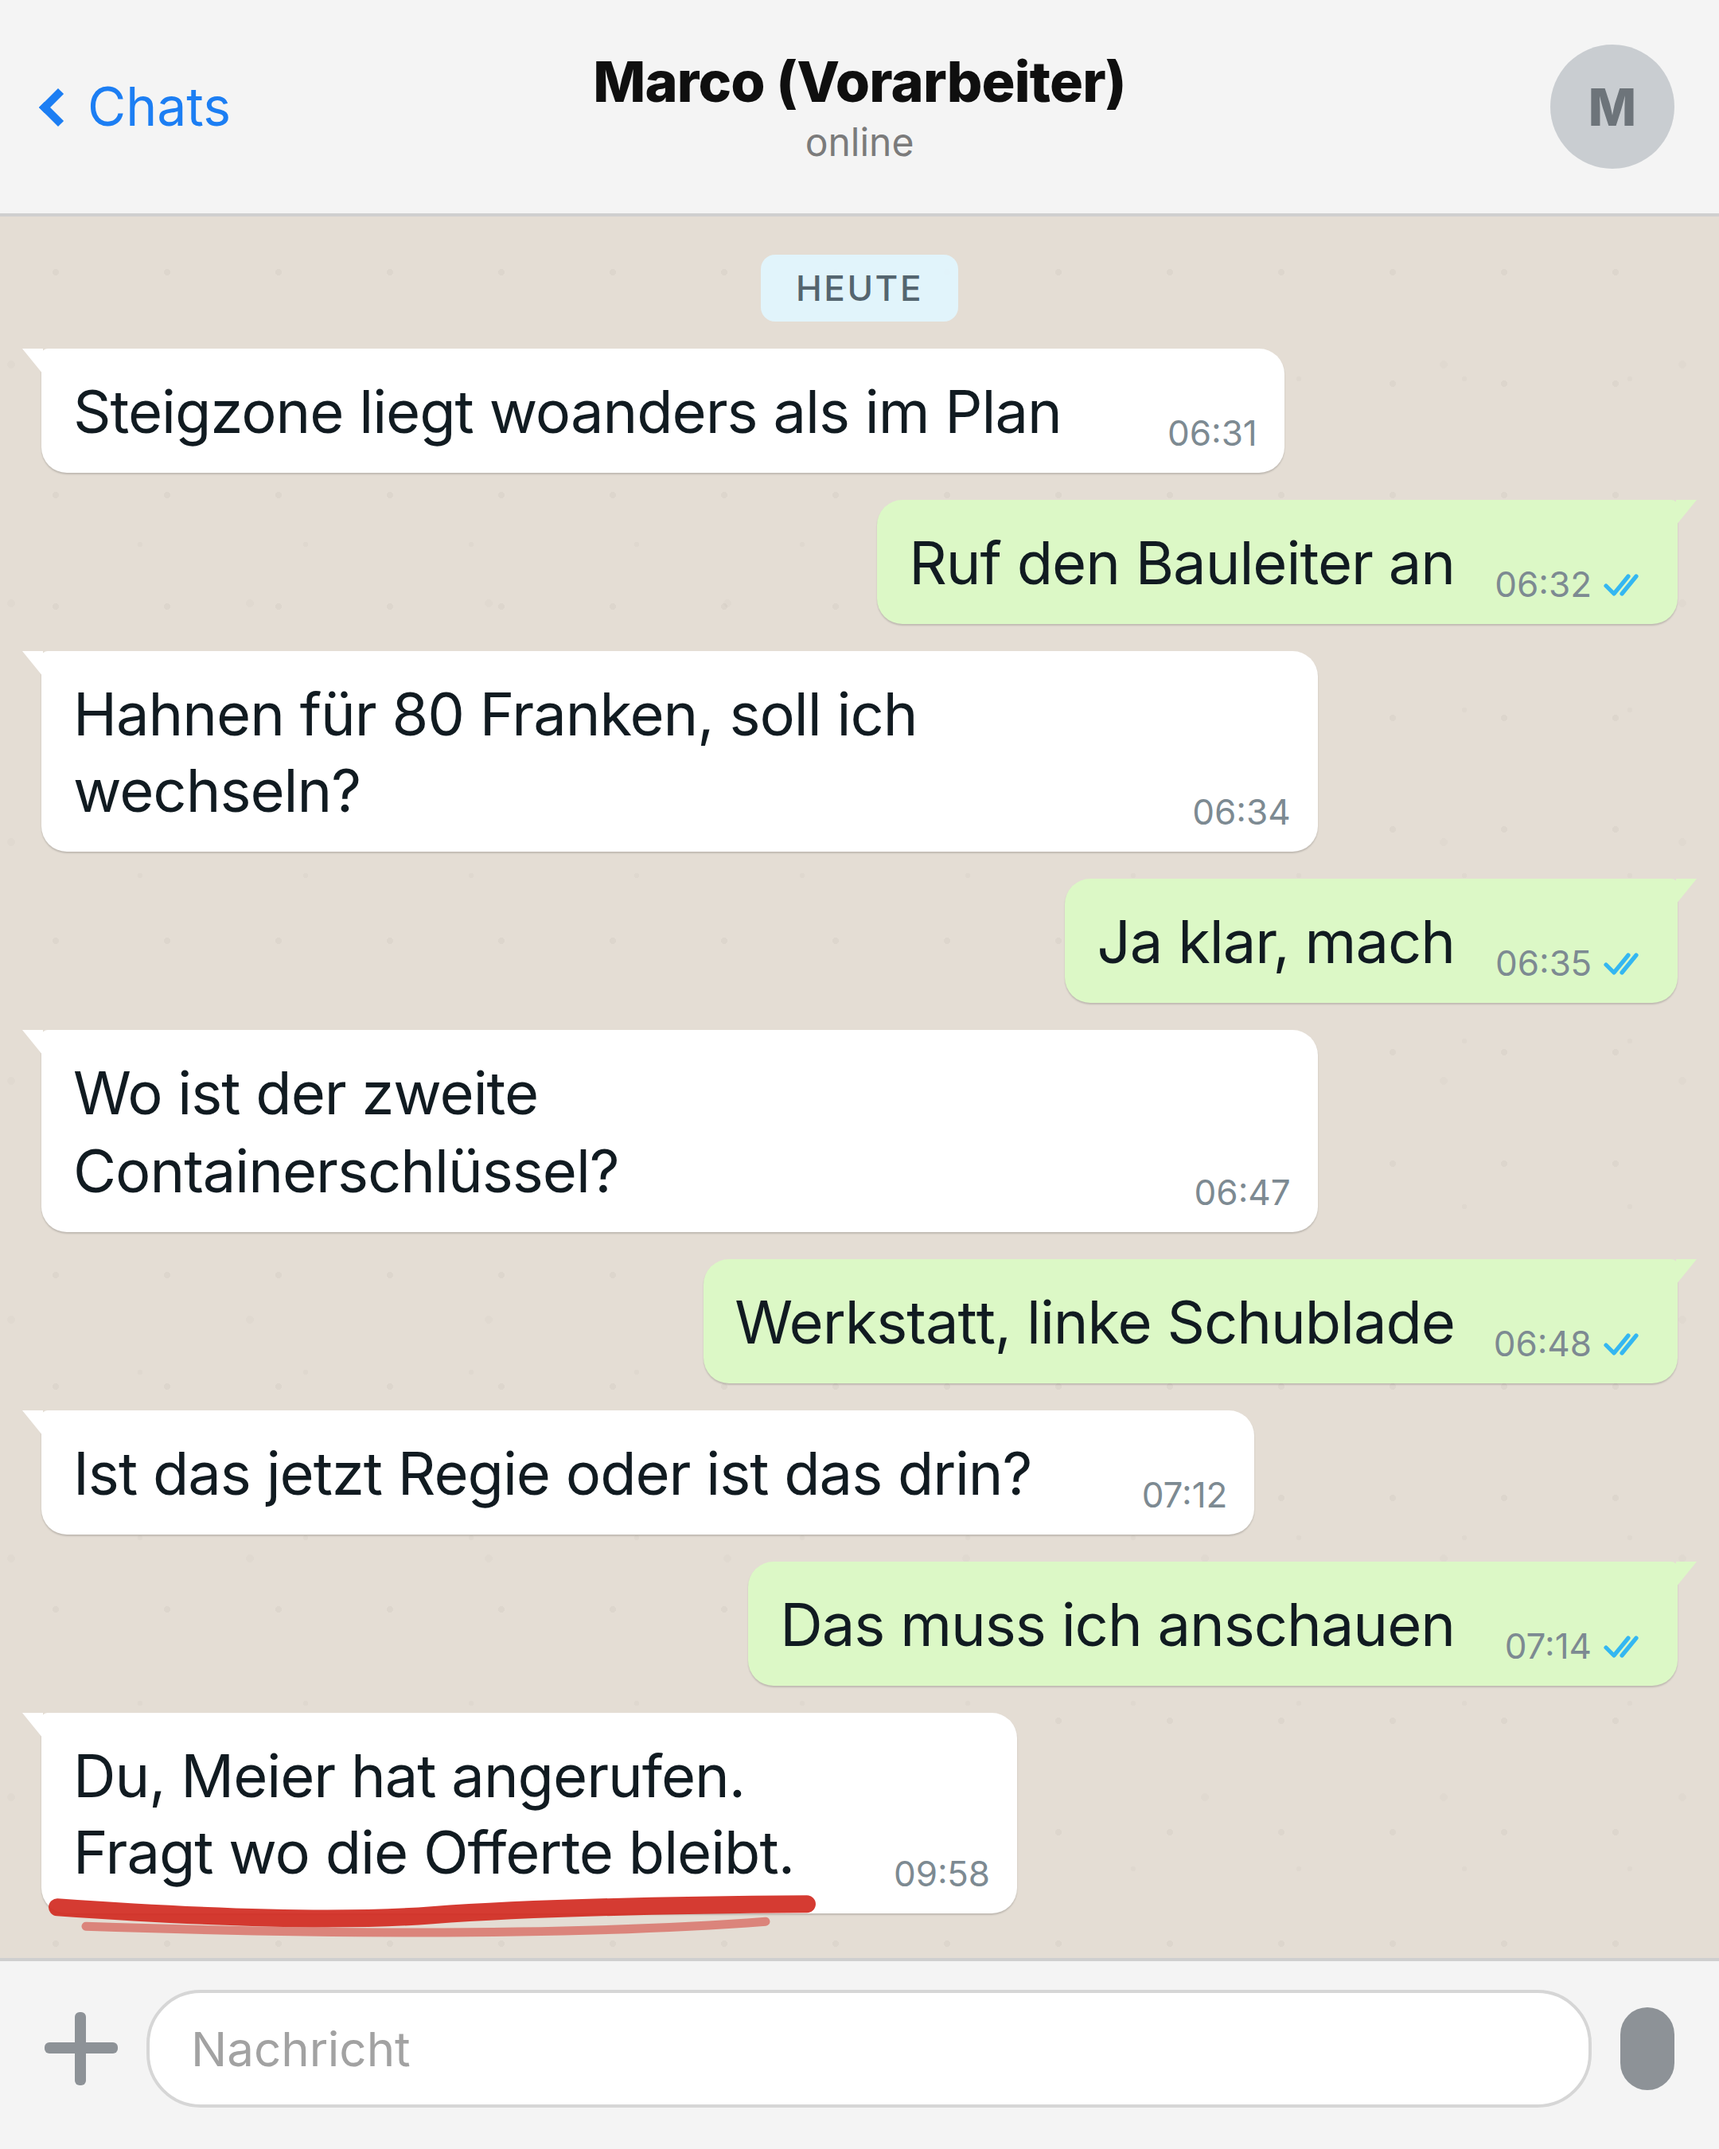
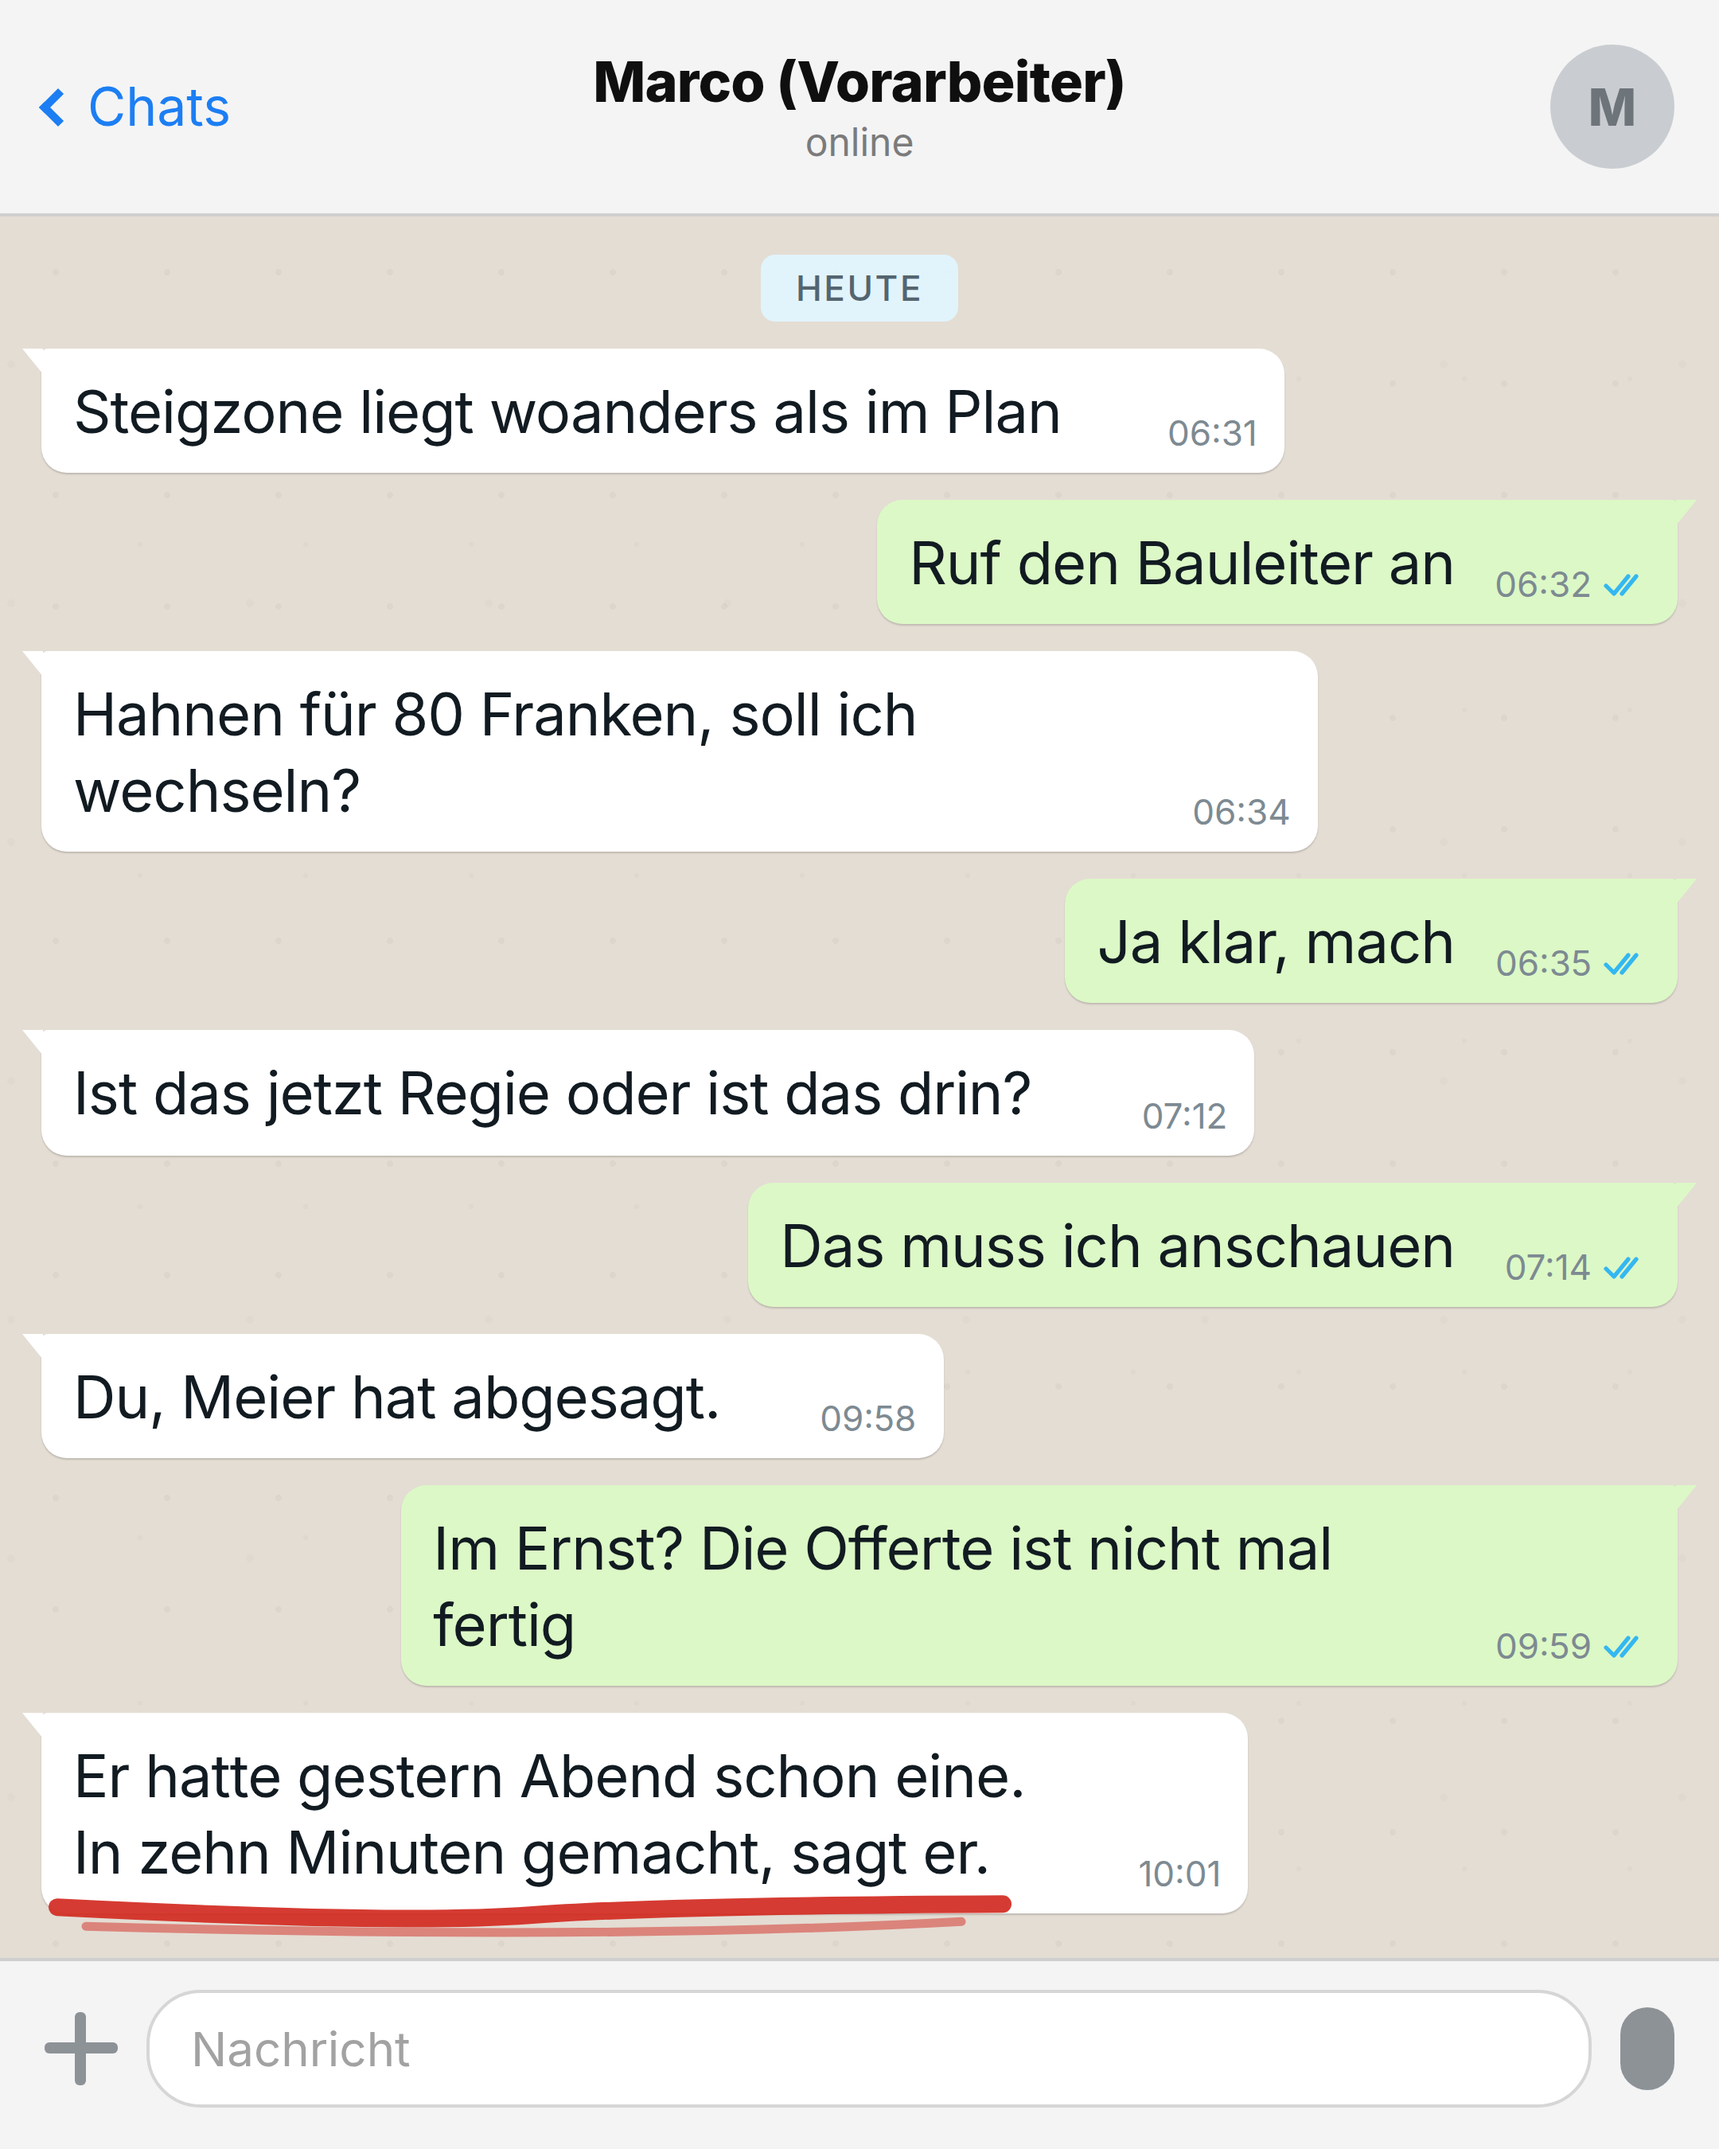
Bild: Kette bis zum verlorenen Auftrag
Florian am 17.09.: der Kunde soll eine andere Offerte bekommen haben,
in zehn Minuten. Neue Schlusskette im Chat: Meier sagt ab, die eigene
Offerte ist nicht mal fertig, der andere hatte gestern Abend schon
eine. Die letzte Zeile ist rot unterstrichen.

Containerschluessel-Paar raus, damit der Platz reicht.

Naht zwischen Bild und Text im Postfile dokumentiert: das Bild
behauptet eine haertere Folge als der Text. Vorschlag fuer eine
Ausgleichszeile liegt bereit, aber nicht eingebaut.

Claude-Session: https://claude.ai/code/session_011uqJThEvfyZaZ27wjBcmdt

Changed region(s): [[0.0, 0.4667, 0.9926, 0.9022]]

diff --git a/fotos/bild-whatsapp.html b/fotos/bild-whatsapp.html
@@ -74,20 +74,20 @@
     <div class="b out"><div class="tx">Ja klar, mach</div>
       <div class="meta"><span class="tm">06:35</span><svg class="ck" viewBox="0 0 30 16"><path d="M2 9l5 5 9-11M12 14l9-11" fill="none" stroke="#34B7F1" stroke-width="2.6" stroke-linecap="round" stroke-linejoin="round"/></svg></div></div>
 
-    <div class="b in"><div class="tx">Wo ist der zweite Containerschlüssel?</div>
-      <div class="meta"><span class="tm">06:47</span></div></div>
-
-    <div class="b out"><div class="tx">Werkstatt, linke Schublade</div>
-      <div class="meta"><span class="tm">06:48</span><svg class="ck" viewBox="0 0 30 16"><path d="M2 9l5 5 9-11M12 14l9-11" fill="none" stroke="#34B7F1" stroke-width="2.6" stroke-linecap="round" stroke-linejoin="round"/></svg></div></div>
-
     <div class="b in"><div class="tx">Ist das jetzt Regie oder ist das drin?</div>
       <div class="meta"><span class="tm">07:12</span></div></div>
 
     <div class="b out"><div class="tx">Das muss ich anschauen</div>
       <div class="meta"><span class="tm">07:14</span><svg class="ck" viewBox="0 0 30 16"><path d="M2 9l5 5 9-11M12 14l9-11" fill="none" stroke="#34B7F1" stroke-width="2.6" stroke-linecap="round" stroke-linejoin="round"/></svg></div></div>
 
-    <div class="b in" id="last"><div class="tx" id="punch">Du, Meier hat angerufen.<br><span id="u">Fragt wo die Offerte bleibt.</span></div>
+    <div class="b in"><div class="tx">Du, Meier hat abgesagt.</div>
       <div class="meta"><span class="tm">09:58</span></div></div>
+
+    <div class="b out"><div class="tx">Im Ernst? Die Offerte ist nicht mal fertig</div>
+      <div class="meta"><span class="tm">09:59</span><svg class="ck" viewBox="0 0 30 16"><path d="M2 9l5 5 9-11M12 14l9-11" fill="none" stroke="#34B7F1" stroke-width="2.6" stroke-linecap="round" stroke-linejoin="round"/></svg></div></div>
+
+    <div class="b in" id="last"><div class="tx" id="punch">Er hatte gestern Abend schon eine.<br><span id="u">In zehn Minuten gemacht, sagt er.</span></div>
+      <div class="meta"><span class="tm">10:01</span></div></div>
   </div>
 
   <div class="inp"><div class="clip"></div><div class="field">Nachricht</div><div class="mic"></div></div>

diff --git a/posts/2026-09-17-kleinkram.md b/posts/2026-09-17-kleinkram.md
@@ -2,7 +2,7 @@
 
 Datum: 2026-09-17 (Donnerstag), 07:30
 Format: Vorlage B. Harter Spiegel in Zeile eins, kurze Szene beim Leser, Wendepunkt, eine Zählfrage.
-Bild: fotos/bild-whatsapp.png (Einzelchat mit dem Vorarbeiter, vier Fragen ab 06:31, Pointe um 09:58 rot unterstrichen). Alternative: fotos/bild-anrufe.png, gleiche Idee als Nachrichtenstapel ohne Chat-Rahmen. Auf Florians Wunsch am 17.09., gegen Regel 16.
+Bild: fotos/bild-whatsapp.png (Einzelchat mit dem Vorarbeiter, drei Fragen ab 06:31, Absage um 09:58, Pointe um 10:01 rot unterstrichen). Alternative: fotos/bild-anrufe.png, gleiche Idee als Nachrichtenstapel ohne Chat-Rahmen. Auf Florians Wunsch am 17.09., gegen Regel 16.
 Content-Säule: Unbequeme Wahrheit, durchgehend Du
 
 ## Post
@@ -85,15 +85,17 @@ Das Freigabe-Problem, stand seit Beginn unter "frische Winkel, noch offen" und w
 
 fotos/bild-whatsapp.png, WhatsApp-Layout auf Florians Wunsch, nach zwei Vorbildern die er am 17.09. geschickt hat. Entscheidend an seinen Vorbildern war nicht das Layout, sondern dass ein echter Dialog mit Verlauf und Pointe erzählt wird und die Pointe von Hand rot unterstrichen ist.
 
-Einzelchat mit "Marco (Vorarbeiter)". Vier Fragen, drei sofort beantwortet:
+Einzelchat mit "Marco (Vorarbeiter)". Drei Fragen am frühen Morgen, alle sofort beantwortet:
 - 06:31 Steigzone liegt woanders als im Plan, Antwort 06:32
 - 06:34 Hahnen für 80 Franken, Antwort 06:35 ("Ja klar, mach")
-- 06:47 zweiter Containerschlüssel, Antwort 06:48
 - 07:12 Regie oder drin, Antwort 07:14 ("Das muss ich anschauen")
 
-Dann die Lücke bis 09:58 und die Pointe, rot unterstrichen: "Du, Meier hat angerufen. Fragt wo die Offerte bleibt."
+Dann die Lücke bis 09:58 und die Kette, die den Post trägt:
+- 09:58 "Du, Meier hat abgesagt."
+- 09:59 "Im Ernst? Die Offerte ist nicht mal fertig"
+- 10:01 rot unterstrichen: "Er hatte gestern Abend schon eine. In zehn Minuten gemacht, sagt er."
 
-Die Geschichte des Bildes ist die Geschichte des Posts. Drei Fragen, die er selber hätte entscheiden können, werden in einer Minute beantwortet. Die eine, die wirklich zum Chef gehört (Regie, weil sie den Preis bewegt), bleibt liegen. Und die Offerte ist um zehn immer noch nicht geschrieben. Das ist genau der Satz aus dem Post: du verlierst in der Offerte jedes Mal den Faden.
+Die Geschichte des Bildes ist die Geschichte des Posts, einen Schritt weitergedacht. Zwei der drei Fragen hätte der Vorarbeiter selber entscheiden können und sie werden in einer Minute beantwortet. Die eine, die wirklich zum Chef gehört (Regie, weil sie den Preis bewegt), bleibt liegen. Und während der Morgen mit Kleinkram vergeht, ist die Offerte nicht geschrieben und der Auftrag weg.
 
 Der Hahnen für achtzig Franken steht im Bild und im Hook, Text und Bild verstärken sich.
 
@@ -102,6 +104,12 @@ Kein Logo, keine Markenzeichen, erfundene Vornamen. Gestaltete Grafik im vertrau
 Technik: die Koordinaten des roten Strichs werden erst nach document.fonts.ready gemessen. Vorher stehen die Werte der Ersatzschrift drin und der Strich landet quer über dem Text. Das war der Fehler in den ersten drei Durchläufen.
 
 Rendern: node fotos/render-whatsapp.js (Alternative ohne Chat-Rahmen: node fotos/render-anrufe.js)
+
+## Naht zwischen Bild und Text
+
+Das Bild behauptet eine härtere Folge als der Text: der Auftrag ist weg. Im Post steht nur "Du verlierst in der Offerte jedes Mal den Faden und fängst von vorne an". Das widerspricht sich nicht, aber das Bild geht einen Schritt weiter.
+
+Falls die Naht stört, reicht eine Zeile im Post nach dem Faden-Satz, zum Beispiel: "Und irgendwann ruft der Kunde an und sagt ab." Noch nicht eingebaut, weil Florian den Text in dieser Form abgenommen hat.
 
 ## Ergebnis
 
